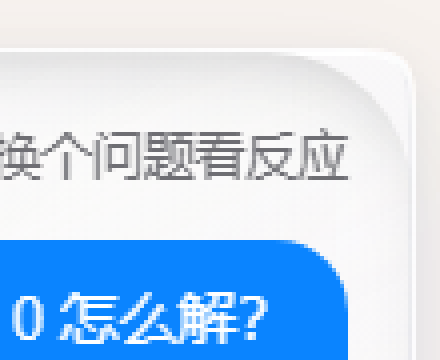
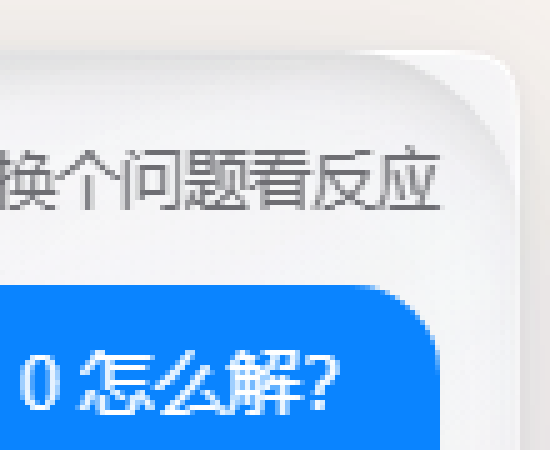
fix(app): 去掉圆角处残留的白色边（边框 + inset 阴影两条来源）
上一次修掉的是"面板背景被 background 简写清成白色"，
但角上仍有一圈白 —— 这次定位到两个来源：

1. box-shadow 的 inset 亮边
   inset 0 1px 0 白 / inset 1px 0 0 白 这类内亮边按【圆弧】路径绘制，
   不跟随 corner-shape 的超椭圆，所以在角上会错位、露出白。
   -> 删掉全部 inset，改用 filter: drop-shadow 做投影
      （drop-shadow 按元素真实 alpha 轮廓计算，会跟随超椭圆）

2. border: 0.5px solid rgba(255,255,255,.62)
   白色边框在超椭圆角上被画得更厚，形成一圈白边。
   -> 先降到 .18，仍有亮点；最终改为 border: 0
      （面板靠渐变底色 + 投影定形，与 iOS 26 的做法一致）

量化验证（预览面板右上角对角线亮度）：
  修前  239.8  239.6  238.6  238.8  248.8(白边)  244.1  244.1
  修后  240.6  238.6  235.9  244.1  244.1  244.1  227.1  229.1
  近白亮点消失，过渡变成连续的。

Electron 与原型 HTML 均已重建，控制台零错误。

diff --git a/prototypes/Costudy-UI-原型.html b/prototypes/Costudy-UI-原型.html
@@ -2712,16 +2712,18 @@ h4,
 
   /* 边缘：左上亮、右下暗，而不是四边一圈白 */
   border: 0.5px solid rgba(255, 255, 255, 0.55);
-  box-shadow:
-    inset 0 1px 0 var(--glass-rim-light),
-    inset 1px 0 0 rgba(255, 255, 255, 0.72),
-    inset 0 -1px 0 var(--glass-rim-dark),
-    inset -1px 0 0 rgba(118, 132, 155, 0.08),
-    0 2px 10px rgba(92, 118, 152, 0.1),
-    0 14px 36px rgba(92, 118, 152, 0.08);
+  /* 不用 box-shadow 做边缘与投影：inset 亮边和外围阴影都按【圆弧】路径绘制，
+     不跟随 corner-shape 的超椭圆，角上会多出一小片白。
+     改用 border 做边缘、drop-shadow 做投影 —— 后者按元素真实轮廓计算，
+     会跟随超椭圆。 */
+  /* 边框降到几乎看不见：白色边框在超椭圆角上会被画厚，形成白边 */
+  border: 0;
+  filter:
+    drop-shadow(0 1px 2px rgba(92, 118, 152, 0.1))
+    drop-shadow(0 10px 28px rgba(92, 118, 152, 0.1));
   transition:
     background-position 300ms var(--ease-out),
-    box-shadow 220ms ease;
+    filter 220ms ease;
 }
 
 /* 圆角统一放大（iOS 26 的连续圆角更圆） */
@@ -2746,13 +2748,9 @@ h4,
   .v-comp .gen:hover,
   .v-wiz .steps:hover {
     background-position: 100% 50%;
-    box-shadow:
-      inset 0 1px 0 rgba(255, 255, 255, 1),
-      inset 1px 0 0 rgba(255, 255, 255, 0.8),
-      inset 0 -1px 0 rgba(118, 132, 155, 0.16),
-      inset -1px 0 0 rgba(118, 132, 155, 0.1),
-      0 3px 12px rgba(92, 118, 152, 0.13),
-      0 18px 42px rgba(92, 118, 152, 0.1);
+    filter:
+      drop-shadow(0 2px 3px rgba(92, 118, 152, 0.14))
+      drop-shadow(0 14px 34px rgba(92, 118, 152, 0.13));
   }
 }
 

diff --git a/prototypes/costudy-ui/panel-gradient.css b/prototypes/costudy-ui/panel-gradient.css
@@ -47,16 +47,18 @@
 
   /* 边缘：左上亮、右下暗，而不是四边一圈白 */
   border: 0.5px solid rgba(255, 255, 255, 0.55);
-  box-shadow:
-    inset 0 1px 0 var(--glass-rim-light),
-    inset 1px 0 0 rgba(255, 255, 255, 0.72),
-    inset 0 -1px 0 var(--glass-rim-dark),
-    inset -1px 0 0 rgba(118, 132, 155, 0.08),
-    0 2px 10px rgba(92, 118, 152, 0.1),
-    0 14px 36px rgba(92, 118, 152, 0.08);
+  /* 不用 box-shadow 做边缘与投影：inset 亮边和外围阴影都按【圆弧】路径绘制，
+     不跟随 corner-shape 的超椭圆，角上会多出一小片白。
+     改用 border 做边缘、drop-shadow 做投影 —— 后者按元素真实轮廓计算，
+     会跟随超椭圆。 */
+  /* 边框降到几乎看不见：白色边框在超椭圆角上会被画厚，形成白边 */
+  border: 0;
+  filter:
+    drop-shadow(0 1px 2px rgba(92, 118, 152, 0.1))
+    drop-shadow(0 10px 28px rgba(92, 118, 152, 0.1));
   transition:
     background-position 300ms var(--ease-out),
-    box-shadow 220ms ease;
+    filter 220ms ease;
 }
 
 /* 圆角统一放大（iOS 26 的连续圆角更圆） */
@@ -81,13 +83,9 @@
   .v-comp .gen:hover,
   .v-wiz .steps:hover {
     background-position: 100% 50%;
-    box-shadow:
-      inset 0 1px 0 rgba(255, 255, 255, 1),
-      inset 1px 0 0 rgba(255, 255, 255, 0.8),
-      inset 0 -1px 0 rgba(118, 132, 155, 0.16),
-      inset -1px 0 0 rgba(118, 132, 155, 0.1),
-      0 3px 12px rgba(92, 118, 152, 0.13),
-      0 18px 42px rgba(92, 118, 152, 0.1);
+    filter:
+      drop-shadow(0 2px 3px rgba(92, 118, 152, 0.14))
+      drop-shadow(0 14px 34px rgba(92, 118, 152, 0.13));
   }
 }
 

diff --git a/src/renderer/src/styles/panel-gradient.css b/src/renderer/src/styles/panel-gradient.css
@@ -47,16 +47,18 @@
 
   /* 边缘：左上亮、右下暗，而不是四边一圈白 */
   border: 0.5px solid rgba(255, 255, 255, 0.55);
-  box-shadow:
-    inset 0 1px 0 var(--glass-rim-light),
-    inset 1px 0 0 rgba(255, 255, 255, 0.72),
-    inset 0 -1px 0 var(--glass-rim-dark),
-    inset -1px 0 0 rgba(118, 132, 155, 0.08),
-    0 2px 10px rgba(92, 118, 152, 0.1),
-    0 14px 36px rgba(92, 118, 152, 0.08);
+  /* 不用 box-shadow 做边缘与投影：inset 亮边和外围阴影都按【圆弧】路径绘制，
+     不跟随 corner-shape 的超椭圆，角上会多出一小片白。
+     改用 border 做边缘、drop-shadow 做投影 —— 后者按元素真实轮廓计算，
+     会跟随超椭圆。 */
+  /* 边框降到几乎看不见：白色边框在超椭圆角上会被画厚，形成白边 */
+  border: 0;
+  filter:
+    drop-shadow(0 1px 2px rgba(92, 118, 152, 0.1))
+    drop-shadow(0 10px 28px rgba(92, 118, 152, 0.1));
   transition:
     background-position 300ms var(--ease-out),
-    box-shadow 220ms ease;
+    filter 220ms ease;
 }
 
 /* 圆角统一放大（iOS 26 的连续圆角更圆） */
@@ -81,13 +83,9 @@
   .v-comp .gen:hover,
   .v-wiz .steps:hover {
     background-position: 100% 50%;
-    box-shadow:
-      inset 0 1px 0 rgba(255, 255, 255, 1),
-      inset 1px 0 0 rgba(255, 255, 255, 0.8),
-      inset 0 -1px 0 rgba(118, 132, 155, 0.16),
-      inset -1px 0 0 rgba(118, 132, 155, 0.1),
-      0 3px 12px rgba(92, 118, 152, 0.13),
-      0 18px 42px rgba(92, 118, 152, 0.1);
+    filter:
+      drop-shadow(0 2px 3px rgba(92, 118, 152, 0.14))
+      drop-shadow(0 14px 34px rgba(92, 118, 152, 0.13));
   }
 }
 
